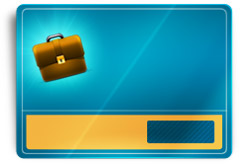
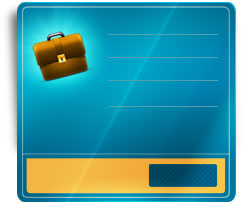
-

diff --git a/httpdocs/themes/classic/css/style.css b/httpdocs/themes/classic/css/style.css
@@ -22,6 +22,13 @@ div, body
 }
 
 #Main.MInnerPage{background-size: auto 358px;}
+#Main.style01
+{
+    background: #ffffff url(../images/desktops/style01.jpg) no-repeat left top;
+}
+
+#Main.style02{background: #ffffff url(../images/desktops/style02.jpg) no-repeat left top;}
+#Main.style03{background: #ffffff url(../images/desktops/style03.jpg) no-repeat left top;}
 
 h1{color: #DC5800;font-size: 12px;text-align: center;}
 
@@ -2023,7 +2030,7 @@ background-image: -ms-linear-gradient(left, rgba( 255, 255, 255, 0.8 ) 0%, rgba(
     background: linear-gradient(top, #ffffff, rgba(4,154,250, 0.2)); /* CSS3 */
 }
 
-.DLItem{float: left;margin: 10px;text-align: center;border-radius: 10px;box-shadow: 0px 0px 5px rgba(0,0,0, 0.8);
+.DLItem{display: inline-block;margin: 10px;text-align: center;border-radius: 10px;box-shadow: 0px 0px 5px rgba(0,0,0, 0.8);
 
     background: #fff; /* Для старых браузров */
     background: -moz-linear-gradient(top, #fff, #efefef); /* Firefox 3.6+ */
@@ -2261,8 +2268,8 @@ background-image: -ms-linear-gradient(left, rgba( 255, 255, 255, 0.8 ) 0%, rgba(
 #userCabinet
 {
     background: url( ../images/user_cabinet.jpg ) no-repeat;
-    width: 240px;
-    height: 166px;
+    width: 243px;
+    height: 203px;
 }
 
 #userCabinet ul
@@ -2279,7 +2286,6 @@ background-image: -ms-linear-gradient(left, rgba( 255, 255, 255, 0.8 ) 0%, rgba(
 {
     color:#ffffff;
     display: block;
-    border-bottom: 1px solid #008fb4;
     padding: 0px 0px 0px 5px;
 }
 
@@ -2288,11 +2294,11 @@ background-image: -ms-linear-gradient(left, rgba( 255, 255, 255, 0.8 ) 0%, rgba(
     background: rgba( 255,255,255, 0.2 );
 }
 
-#userCabinet div
+#userCabinet #logOut
 {
     font-size: 11px;
     line-height: 10px;
-    margin: 14px 0px 0px 33px;
+    margin: 32px 0px 0px 33px;
     color:#6f6f6f;
 }
 

diff --git a/protected/views/layouts/main.php b/protected/views/layouts/main.php
@@ -4,14 +4,34 @@
     <?php $this->renderPartial('//layouts/header'); ?>
 </head>
 
+<?php
+    Yii::app()->session["otherStyle"] = false;
+    $mainClass = "";
+    if( Yii::app()->controller->getId() != "site" )$mainClass = "MInnerPage";
+    if( !Yii::app()->user->isGuest )
+    {
+        $userModel = CatalogUsers::fetch( Yii::app()->user->getId() );
+        if( $userModel->desktop->id >0 && $userModel->desktop->class_name )
+        {
+            if( !empty( $mainClass ) )$mainClass.= " ";
+            $mainClass .= "otherStyle ".$userModel->desktop->class_name;
+            Yii::app()->session["otherStyle"] = true;
+        }
+    }
+?>
+
 <body>
-<div id="Main" <?= ( Yii::app()->controller->getId() != "site" ) ? ' class="MInnerPage"' : '' ?>>
+<div id="Main" <?= !empty( $mainClass ) ? ' class="'.$mainClass.'"' : '' ?>>
 
 <div id="BannerBlock">
     <div class="BottomLink">
         <h3>детский лагерь</h3> <h4>отдых</h4> <b>туры</b> <u>туроператоры</u> <i>турфирмы</i> <i>горный лагерь</i> <font>турагентство</font> <u>зоны отдыха</u> <u>туристические агентства</u> <h3>тур фирмы</h3> <h4>туристические компании</h4> <b>поиск тура</b> <u>туроператоры</u> <h2>отдых в горах</h2> <b>тур фирмы</b>
     </div>
-    <div id="BBLeft"><img src="<?= $Theme->getBaseUrl() ?>/images/logo.jpg" alt="мировой отдых для вас, туристический портал" /></div>
+        <div id="BBLeft">
+            <?php if( !Yii::app()->session["otherStyle"] ) : ?>
+                <img src="<?= $Theme->getBaseUrl() ?>/images/logo.jpg" alt="мировой отдых для вас, туристический портал" />
+            <?php endif; ?>
+        </div>
     <Div id="BRight">
         <div id="BRTitle"><a href=""><img src="<?= $Theme->getBaseUrl() ?>/images/logo_title.png" /></a></div>
         <?php if( Yii::app()->controller->getId() == "site" ) : ?><div id="BRHref"><a href=""><b>W</b>orld-<b>T</b>ravel.<font>uz</font></a></div><?php endif; ?>

diff --git a/protected/modules/console/controllers/TestController.php b/protected/modules/console/controllers/TestController.php
@@ -1,0 +1,53 @@
+<?php
+
+class TestController extends ConsoleController
+{
+    	/**
+	 * This is the default 'index' action that is invoked
+	 * when an action is not explicitly requested by users.
+	 */
+	public function actionCheckUsers()
+	{
+        $this->render( "index" );
+        $res = CatalogFirms::fetchAll( DBQueryParamsClass::CreateParams()->setConditions("email!='' AND user_id=0")->setLimit( -1 )->setCache(0 ) );
+        $i=0;
+        foreach( $res as $item )
+        {
+            $email="";
+            if( strpos( $item->email, "," ) )
+                $item->email = trim( mb_substr( $item->email, 0, strpos( $item->email, "," ), "utf-8" ) );
+            echo $item->id." | ".$item->name." - ".$item->email."<br/>";
+
+            $findUser = CatalogUsers::findByAttributes( array( "email"=>$item->email ) );
+            if( sizeof($findUser) == 0 )
+            {
+                echo "Create";
+                $newUser = new CatalogUsers();
+                $newUser->name = $item->name;
+                $newUser->email = $item->email;
+                $newUser->image = $item->image;
+                $newUser->pass = rand( 100, 999 );
+                $newUser->password = md5( $newUser->pass );
+                $newUser->active = 1;
+                $newUser->country_id = $item->country_id->id;
+                $newUser->type_id = 1;
+                $newUser->site = $item->www;
+                $newUser->phone = $item->tel;
+
+                if( !$newUser->save() )print_r( $newUser->getErrors() );
+            }
+                else
+                {
+                    echo "Find";
+                    $newUser = $findUser[0];
+                }
+
+            if( $newUser->id > 0 )
+            {
+                $item->user_id = $newUser->id;
+                $item->save();
+            }
+            $i++;
+        }
+	}
+};

diff --git a/protected/components/views/auth_cabinet.php b/protected/components/views/auth_cabinet.php
@@ -10,12 +10,12 @@
         <li><a href="<?= SiteHelper::createUrl("/user/work" ) ?>" title="">Мои вакансии</a></li>
         <li><a href="<?= SiteHelper::createUrl("/user/resume" ) ?>" title="">Мои резюме</a></li-->
         <li><a href="<?= SiteHelper::createUrl("/user/default/Profile" ) ?>" title="">Мой профиль</a></li>
-        <!--li><a href="<?= SiteHelper::createUrl("/user/favorites" ) ?>" title="">Выбранное на заметку</a></li>
-        <li><a href="<?= SiteHelper::createUrl("/user/desktop" ) ?>" title="">Выбрать рабочий стол</a></li-->
+        <!--li><a href="<?= SiteHelper::createUrl("/user/favorites" ) ?>" title="">Выбранное на заметку</a></li-->
+        <li><a href="<?= SiteHelper::createUrl("/user/desktop" ) ?>" title="">Выбрать стить сайта</a></li>
         <!-- a href="<?= SiteHelper::createUrl("/user/fprofile" ) ?>" title="">Финансов1ый профиль</a-->
         <li></li>
     </ul>
-    <div>
+    <div id="logOut">
         <a href="<?= SiteHelper::createUrl("/user/default/logout" ) ?>" title="">Выйти</a>
         нажмите чтобы<br/>выйти из кабинета
     </div>

diff --git a/protected/models/CatalogUsers.php b/protected/models/CatalogUsers.php
@@ -24,7 +24,8 @@ class CatalogUsers extends CCModel
     protected $quote; // string 
     protected $desktop; // integer 
     protected $amount; // integer 
-    protected $pos; // integer 
+    protected $pos; // integer
+    protected $pass;
 
 /*
 * Поля - связи
@@ -71,7 +72,7 @@ class CatalogUsers extends CCModel
             array('email', 'check_exists_email'),
 			// The following rule is used by search().
 			// Please remove those attributes that should not be searched.
-			array('pos, del, name, active, password, surname, fatchname, email, country_id, city_id, type_id, image, country_other, last_visit, phone, site, quote, desktop, amount', 'safe'),
+			array('pass, pos, del, name, active, password, surname, fatchname, email, country_id, city_id, type_id, image, country_other, last_visit, phone, site, quote, desktop, amount', 'safe'),
             array('id, del, name, active, password, surname, fatchname, email, country_id, city_id, type_id, image, country_other, last_visit, phone, site, quote, desktop, amount', 'safe', 'on'=>'search'),
 		);
 	}

diff --git a/protected/models/CatalogUsersType.php b/protected/models/CatalogUsersType.php
@@ -9,7 +9,8 @@ class CatalogUsersType extends CCModel
     protected $pos; // integer 
     protected $del; // integer 
     protected $name; // string 
-    protected $key_word; // string 
+    protected $key_word; // string
+    protected $description;
 
 /*
 * Поля - связи
@@ -44,7 +45,7 @@ class CatalogUsersType extends CCModel
 			array('key_word', 'length', 'max'=>50),
 			// The following rule is used by search().
 			// Please remove those attributes that should not be searched.
-			array('id, pos, del, name, key_word', 'safe', 'on'=>'search'),
+			array('id, description pos, del, name, key_word', 'safe', 'on'=>'search'),
 		);
 	}
 

diff --git a/protected/models/CatalogDesktops.php b/protected/models/CatalogDesktops.php
@@ -39,7 +39,7 @@ class CatalogDesktops extends CCModel
 		// NOTE: you should only define rules for those attributes that
 		// will receive user inputs.
 		return array(
-			array('name, class_name', 'required'),
+			array('name', 'required'),
 			array('del, pos', 'numerical', 'integerOnly'=>true),
 			array('name, class_name', 'length', 'max'=>50),
 			array('image', 'length', 'max'=>255),

diff --git a/protected/modules/user/views/desktop/index.php b/protected/modules/user/views/desktop/index.php
@@ -7,7 +7,7 @@
 <h1>Рабочий стол</h1>
 <form action="" method="post">
     <?= $userModel->getMessage();  ?>
-    <div class="overflowHidden">
+    <div class="overflowHidden textAlignCenter">
         <?php foreach( $items as $item ) : ?>
             <div class="DLItem">
                 <div class="TImage"><img src="<?= ImageHelper::getImage( $item->image, 2 ) ?>" alt=""/></div>

diff --git a/protected/modules/console/views/test/index.php b/protected/modules/console/views/test/index.php
@@ -1,0 +1,7 @@
+<?php
+/**
+ * Created by PhpStorm.
+ * User: Igor
+ * Date: 29.03.14
+ * Time: 20:33
+ */ 
